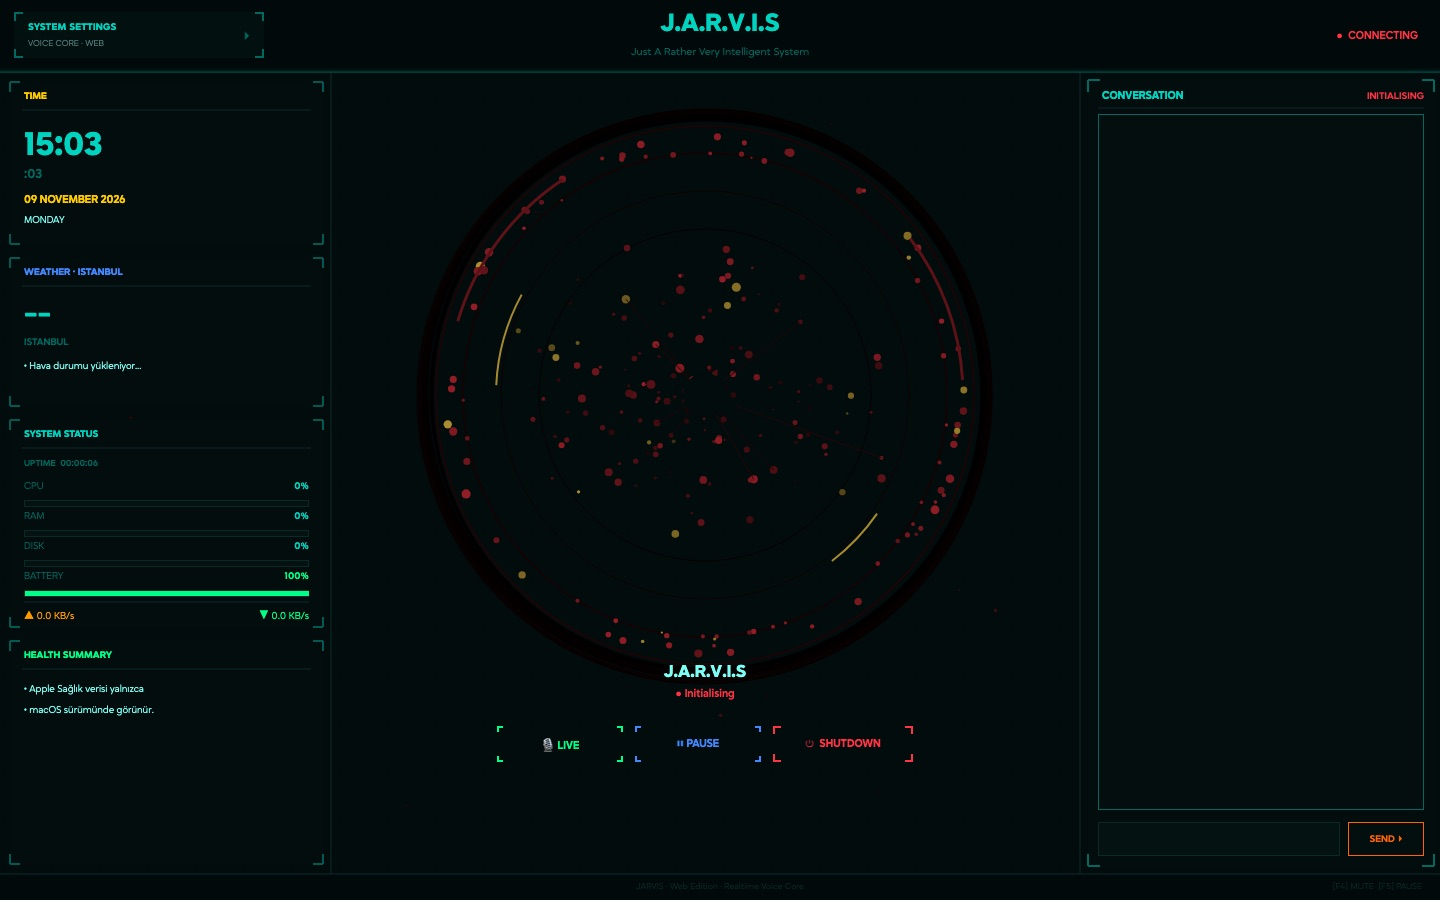
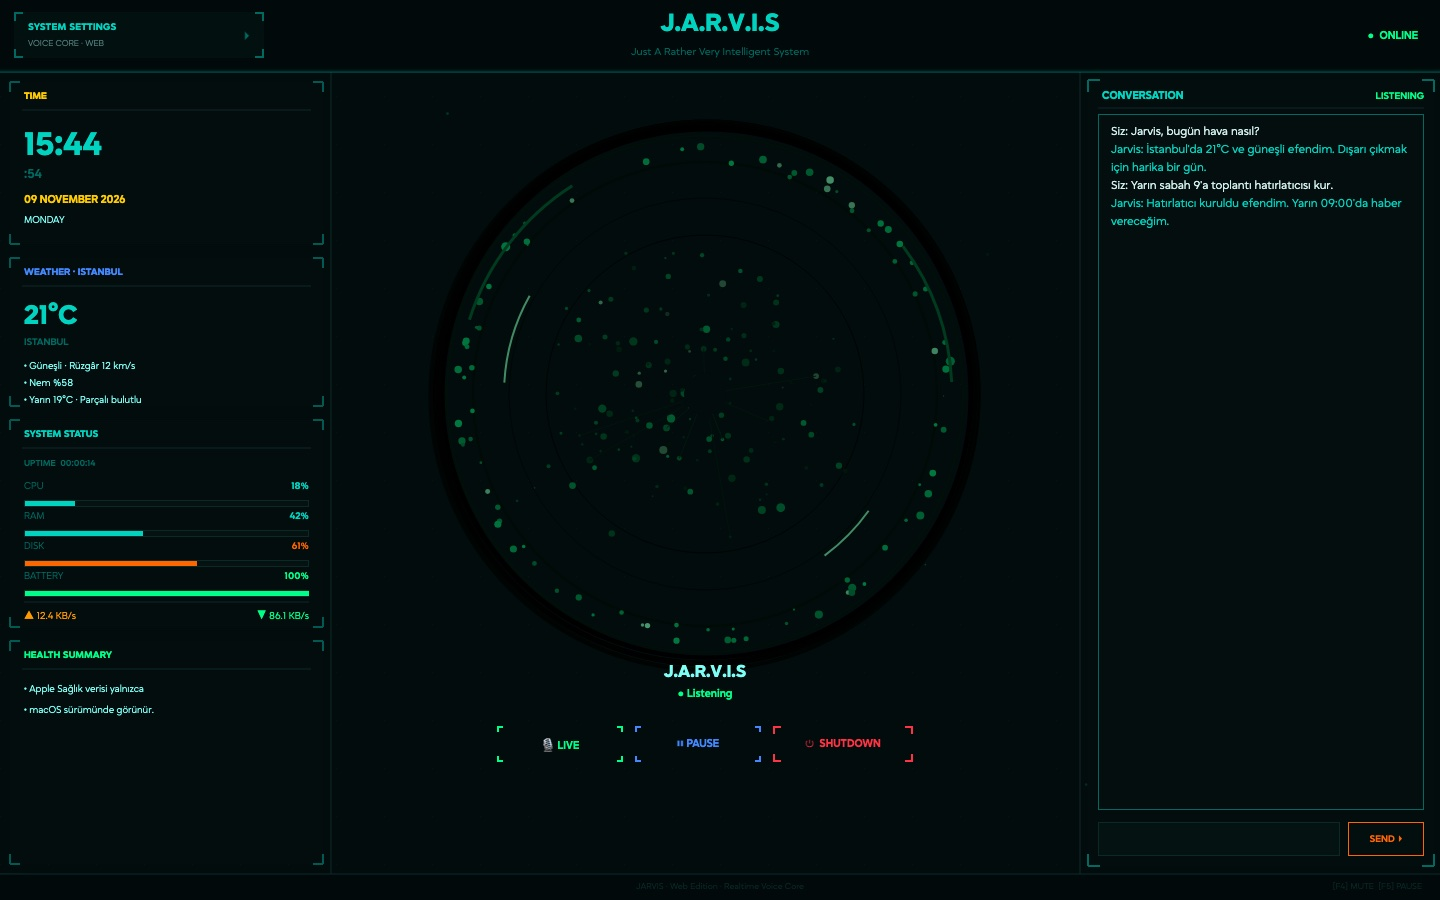
.

diff --git a/main.js b/main.js
@@ -202,8 +202,8 @@
         <span class="card__big">${pad(i + 1)}</span>
         <div class="win"><div class="win__bar"><i></i><i></i><i></i><span>~/${p.repo || "marthen-llm"}</span></div><pre>${p.code.join("\n")}</pre></div>
         ${shotOf(p) ? `<div class="shot"><div class="win__bar"><i></i><i></i><i></i><span>${t(p, "name")}</span></div>${p.video
-          ? `<video src="${shotOf(p)}.mp4" poster="${shotOf(p)}.jpg" muted loop playsinline autoplay preload="metadata"></video>`
-          : `<img src="${shotOf(p)}.jpg" alt="${t(p, "name")}">`}</div>` : ""}
+          ? `<video src="${shotOf(p)}.mp4" poster="${shotOf(p)}.jpg?v=2" muted loop playsinline autoplay preload="metadata"></video>`
+          : `<img src="${shotOf(p)}.jpg?v=2" alt="${t(p, "name")}">`}</div>` : ""}
       </div>
     </article>`).join("");
 
@@ -266,8 +266,8 @@
     pm.style.setProperty("--c", p.c);
     $("#pmMedia").innerHTML = src
       ? (p.video
-        ? `<video src="${src}.mp4" poster="${src}.jpg" muted loop playsinline autoplay controls></video>`
-        : `<img src="${src}.jpg" alt="${t(p, "name")}">`)
+        ? `<video src="${src}.mp4" poster="${src}.jpg?v=2" muted loop playsinline autoplay controls></video>`
+        : `<img src="${src}.jpg?v=2" alt="${t(p, "name")}">`)
       : `<pre>${p.code.join("\n")}</pre>`;
     $("#pmMedia").classList.toggle("is-code", !src);
     $("#pmMedia img")?.addEventListener("error", () => {

diff --git a/index.html b/index.html
@@ -158,6 +158,6 @@
   <script src="https://cdnjs.cloudflare.com/ajax/libs/gsap/3.12.5/gsap.min.js"></script>
   <script src="https://cdnjs.cloudflare.com/ajax/libs/gsap/3.12.5/ScrollTrigger.min.js"></script>
   <script src="https://unpkg.com/lenis@1.1.13/dist/lenis.min.js"></script>
-  <script src="main.js?v=8"></script>
+  <script src="main.js?v=9"></script>
 </body>
 </html>
